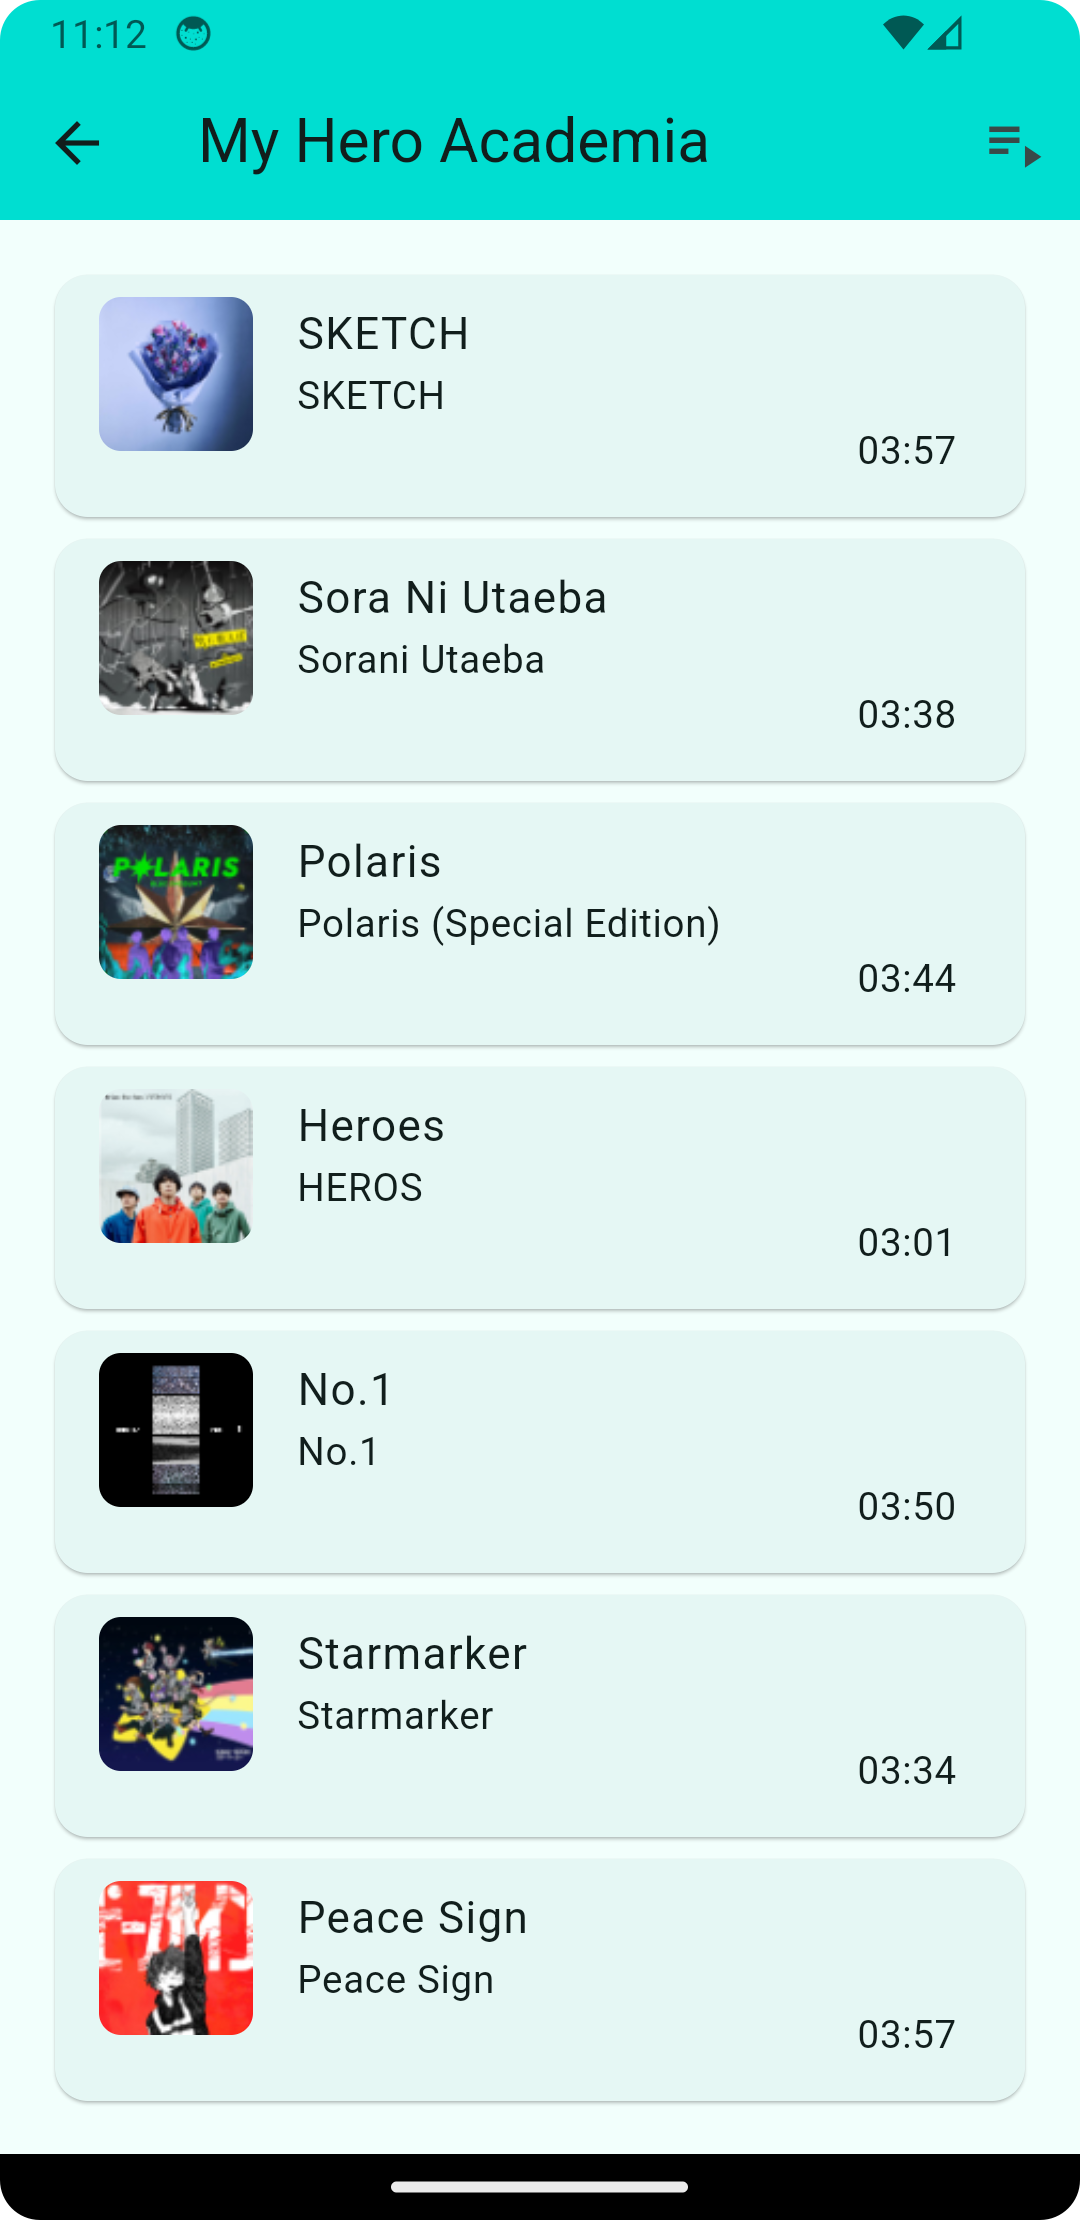
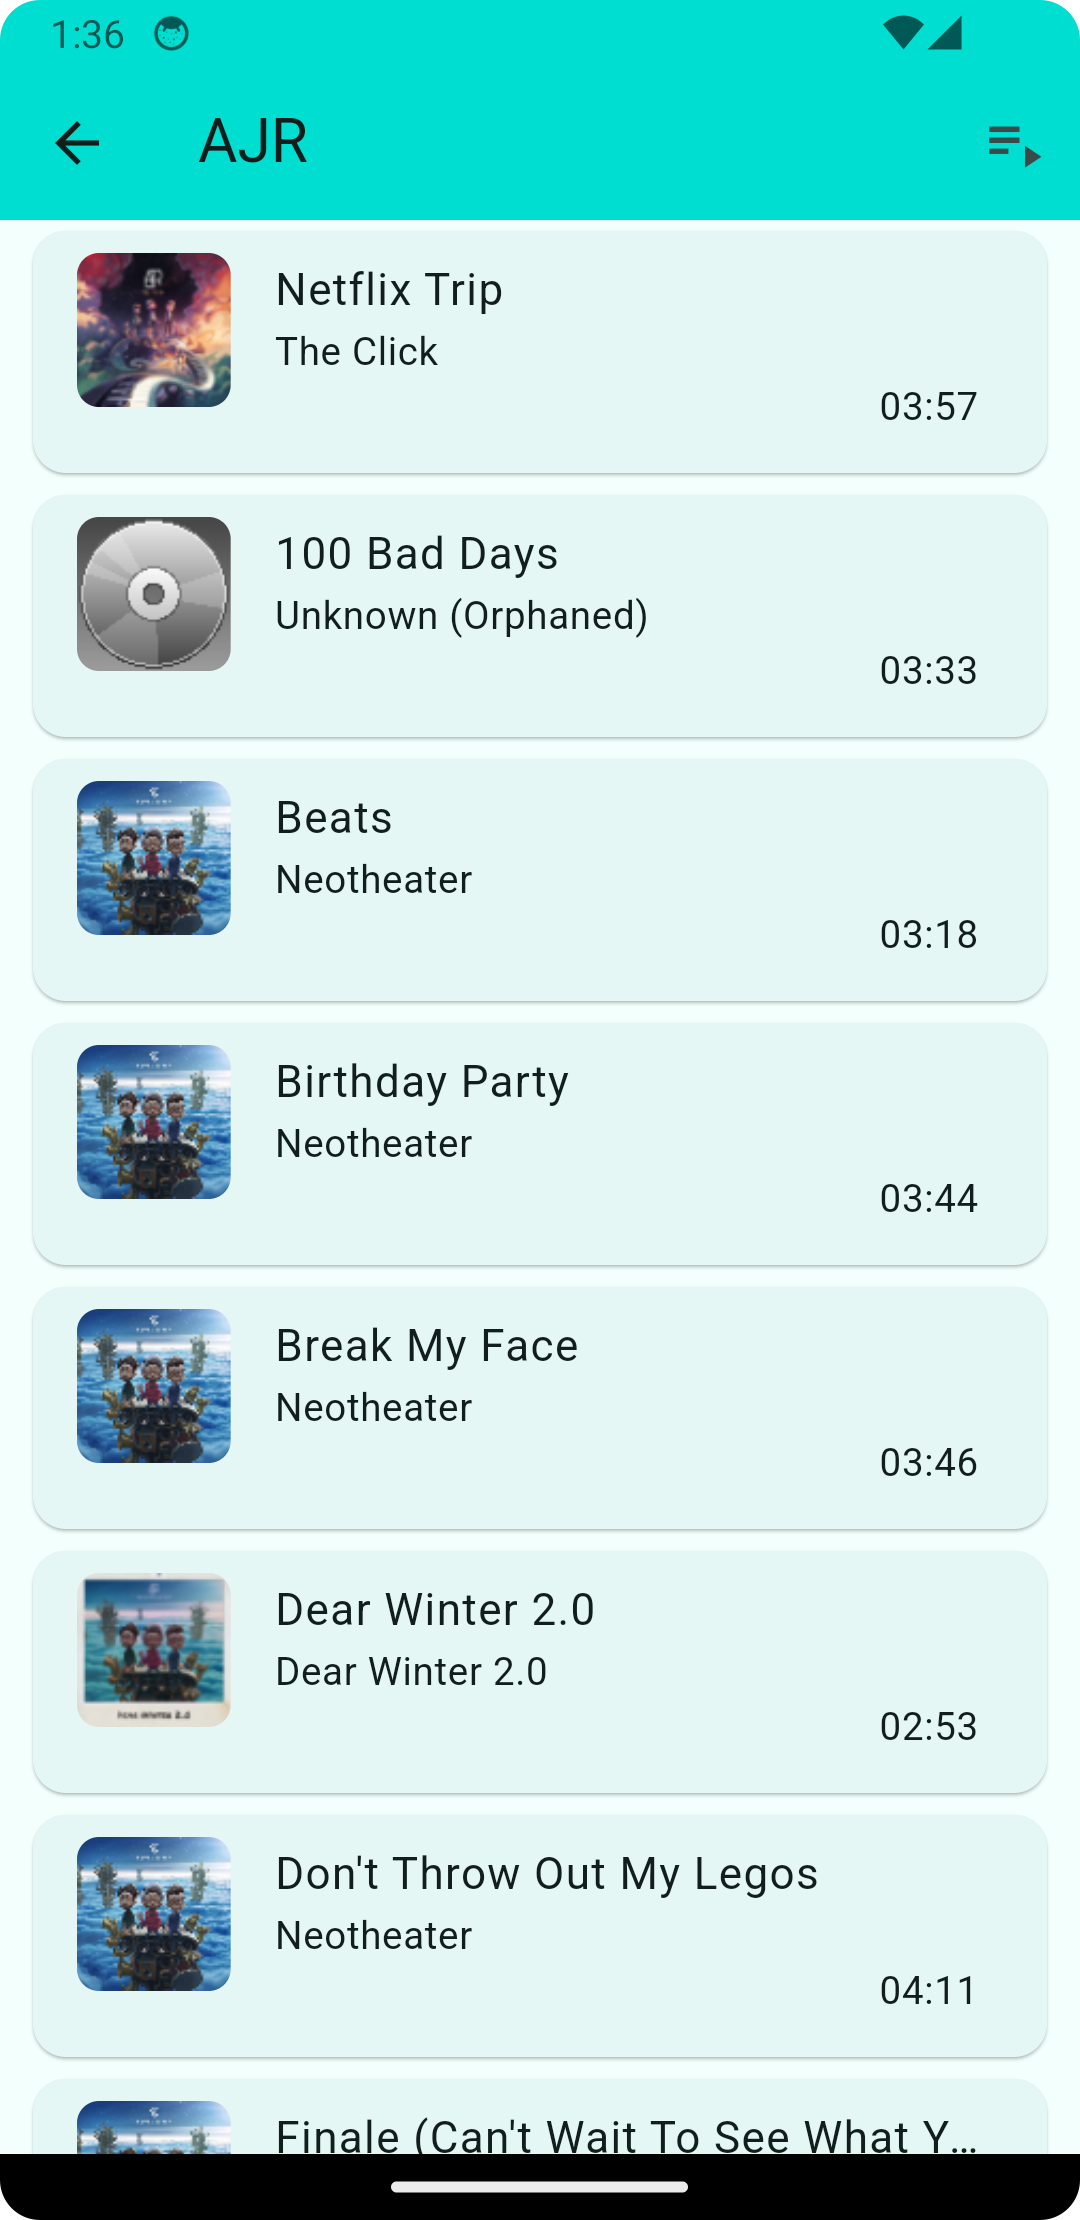
minor tweaks to the ui, padding, colors

diff --git a/lib/widgets/subsonic_card.dart b/lib/widgets/subsonic_card.dart
@@ -21,26 +21,33 @@ class SubsonicCard extends StatelessWidget {
 
   @override
   Widget build(BuildContext context) {
-    return Card(
-      child: ListTile(
-        leading: ClipRRect(
-          borderRadius: BorderRadius.circular(8.0),
-          child: CachedNetworkImage(
-            fadeInCurve: Curves.fastLinearToSlowEaseIn,
-            placeholder: (context, url) => const SizedBox(height: 72),
-            cacheKey: cacheKey ?? imageUrl,
-            maxHeightDiskCache: 72,
-            imageUrl: imageUrl,
-            height: 72,
-            fit: BoxFit.fill,
+    return Padding(
+      padding: const EdgeInsets.fromLTRB(8.0, 0.0, 8.0, 0.0),
+      child: Card(
+        child: ListTile(
+          leading: ClipRRect(
+            borderRadius: BorderRadius.circular(8.0),
+            child: FractionallySizedBox(
+              widthFactor: 0.17,
+              heightFactor: 1,
+              child: CachedNetworkImage(
+                fadeInCurve: Curves.fastLinearToSlowEaseIn,
+                //placeholder: (context, url) => const SizedBox(height: 72),
+                cacheKey: cacheKey ?? imageUrl,
+                maxHeightDiskCache: 72,
+                imageUrl: imageUrl,
+                //height: 72,
+                fit: BoxFit.cover,
+              ),
+            ),
           ),
+          onTap: onTap,
+          title: Text(title, overflow: TextOverflow.ellipsis, maxLines: 1),
+          subtitle: Column(
+            children: content,
+          ),
+          isThreeLine: isThreeLines ?? false,
         ),
-        onTap: onTap,
-        title: Text(title, overflow: TextOverflow.ellipsis, maxLines: 1),
-        subtitle: Column(
-          children: content,
-        ),
-        isThreeLine: isThreeLines ?? false,
       ),
     );
   }

diff --git a/lib/pages/playlist.dart b/lib/pages/playlist.dart
@@ -81,12 +81,9 @@ class _PlaylistPageState extends State<PlaylistPage> {
       },
       child: Stack(
         children: [
-          Padding(
-            padding: const EdgeInsets.all(16.0),
-            child: ListView(
-              shrinkWrap: true,
-              children: children,
-            ),
+          ListView(
+            shrinkWrap: true,
+            children: children,
           ),
           const MusicPlayer(),
         ],

diff --git a/lib/pages/home.dart b/lib/pages/home.dart
@@ -92,12 +92,9 @@ class _MyHomePageState extends State<MyHomePage> {
       },
       child: Stack(
         children: [
-          Padding(
-            padding: const EdgeInsets.all(16.0),
-            child: ListView(
-              shrinkWrap: true,
-              children: children,
-            ),
+          ListView(
+            shrinkWrap: true,
+            children: children,
           ),
           const MusicPlayer(),
         ],

diff --git a/lib/widgets/music_player.dart b/lib/widgets/music_player.dart
@@ -137,7 +137,9 @@ class _MusicPlayerState extends State<MusicPlayer> {
           child: Card(
             color: Colors.transparent,
             shadowColor: Colors.grey,
+            elevation: 0.1,
             margin: EdgeInsets.zero,
+            shape: RoundedRectangleBorder(borderRadius: BorderRadius.circular(16)),
             child: Padding(
               padding: const EdgeInsets.all(8.0),
               child: Column(

diff --git a/README.md b/README.md
@@ -1,6 +1,6 @@
 # FlSub
 
-An [Ampache](https://ampache.org/) / [Subsonic](http://www.subsonic.org/pages/index.jsp) client for Android 12 (SDK API >= 31) in Flutter using Material 3.
+An [Ampache](https://ampache.org/) / [Subsonic](http://www.subsonic.org/pages/index.jsp) client for Android 12 (SDK API >= 18) in Flutter using Material 3.
 
 ## Features
 
